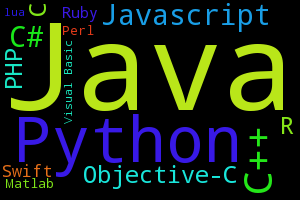
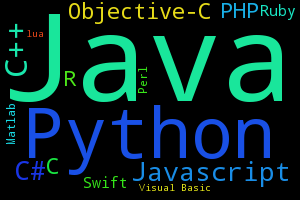
log scale. DE, IN

diff --git a/PYPL.html b/PYPL.html
@@ -159,6 +159,48 @@ table = "<!-- begin section US-->\
 <!-- end section US-->\
 ";
 }
+if (getUrlParameter('country') == "DE") {
+cloud = "DE.png"
+table = "<!-- begin section DE-->\
+<td class=center>1</td><td class=center></td><td>Java</td><td class=right>28.8 %</td><td class=\"right optCol\">+0.7 %</td></tr>\
+<tr><td class=center>2</td><td class=center><image src=Up.png></td><td>Python</td><td class=right>14.9 %</td><td class=\"right optCol\">+1.1 %</td></tr>\
+<tr><td class=center>3</td><td class=center><image src=Down.png></td><td>C++</td><td class=right>13.4 %</td><td class=\"right optCol\">+0.4 %</td></tr>\
+<tr><td class=center>4</td><td class=center></td><td>PHP</td><td class=right>12.4 %</td><td class=\"right optCol\">-0.8 %</td></tr>\
+<tr><td class=center>5</td><td class=center></td><td>C#</td><td class=right>11.5 %</td><td class=\"right optCol\">+1.3 %</td></tr>\
+<tr><td class=center>6</td><td class=center></td><td>C</td><td class=right>7.1 %</td><td class=\"right optCol\">-1.6 %</td></tr>\
+<tr><td class=center>7</td><td class=center></td><td>Javascript</td><td class=right>6.9 %</td><td class=\"right optCol\">-0.9 %</td></tr>\
+<tr><td class=center>8</td><td class=center></td><td>Objective-C</td><td class=right>5.0 %</td><td class=\"right optCol\">-0.3 %</td></tr>\
+<tr><td class=center>9</td><td class=center><image src=Up.png><image src=Up.png><image src=Up.png><image src=Up.png><image src=Up.png></td><td>lua</td><td class=right>0.0 %</td><td class=\"right optCol\">+0.0 %</td></tr>\
+<tr><td class=center>10</td><td class=center><image src=Down.png></td><td>Perl</td><td class=right>0.0 %</td><td class=\"right optCol\">+0.0 %</td></tr>\
+<tr><td class=center>11</td><td class=center><image src=Down.png></td><td>Ruby</td><td class=right>0.0 %</td><td class=\"right optCol\">+0.0 %</td></tr>\
+<tr><td class=center>12</td><td class=center><image src=Up.png></td><td>Visual Basic</td><td class=right>0.0 %</td><td class=\"right optCol\">+0.0 %</td></tr>\
+<tr><td class=center>13</td><td class=center><image src=Down.png><image src=Down.png></td><td>R</td><td class=right>0.0 %</td><td class=\"right optCol\">+0.0 %</td></tr>\
+<tr><td class=center>14</td><td class=center><image src=Down.png><image src=Down.png></td><td>Swift</td><td class=right>0.0 %</td><td class=\"right optCol\">+0.0 %</td></tr>\
+<tr><td class=center>15</td><td class=center></td><td>Matlab</td><td class=right>0.0 %</td><td class=\"right optCol\">+0.0 %</td>\
+<!-- end section DE-->\
+";
+}
+if (getUrlParameter('country') == "IN") {
+cloud = "IN.png"
+table = "<!-- begin section IN-->\
+<td class=center>1</td><td class=center></td><td>Java</td><td class=right>32.2 %</td><td class=\"right optCol\">+0.1 %</td></tr>\
+<tr><td class=center>2</td><td class=center></td><td>PHP</td><td class=right>13.4 %</td><td class=\"right optCol\">-1.4 %</td></tr>\
+<tr><td class=center>3</td><td class=center></td><td>C</td><td class=right>9.9 %</td><td class=\"right optCol\">+0.1 %</td></tr>\
+<tr><td class=center>4</td><td class=center></td><td>C#</td><td class=right>8.8 %</td><td class=\"right optCol\">-0.4 %</td></tr>\
+<tr><td class=center>5</td><td class=center></td><td>Javascript</td><td class=right>8.4 %</td><td class=\"right optCol\">-0.7 %</td></tr>\
+<tr><td class=center>6</td><td class=center><image src=Up.png></td><td>Python</td><td class=right>6.9 %</td><td class=\"right optCol\">+1.5 %</td></tr>\
+<tr><td class=center>7</td><td class=center><image src=Down.png></td><td>C++</td><td class=right>6.6 %</td><td class=\"right optCol\">+0.8 %</td></tr>\
+<tr><td class=center>8</td><td class=center></td><td>Objective-C</td><td class=right>4.4 %</td><td class=\"right optCol\">+0.2 %</td></tr>\
+<tr><td class=center>9</td><td class=center></td><td>Matlab</td><td class=right>2.7 %</td><td class=\"right optCol\">-0.4 %</td></tr>\
+<tr><td class=center>10</td><td class=center></td><td>Perl</td><td class=right>1.7 %</td><td class=\"right optCol\">-0.7 %</td></tr>\
+<tr><td class=center>11</td><td class=center><image src=Up.png></td><td>Ruby</td><td class=right>1.5 %</td><td class=\"right optCol\">+0.1 %</td></tr>\
+<tr><td class=center>12</td><td class=center><image src=Up.png></td><td>R</td><td class=right>1.4 %</td><td class=\"right optCol\">+0.5 %</td></tr>\
+<tr><td class=center>13</td><td class=center><image src=Down.png><image src=Down.png></td><td>Visual Basic</td><td class=right>1.4 %</td><td class=\"right optCol\">-0.8 %</td></tr>\
+<tr><td class=center>14</td><td class=center><image src=Up.png></td><td>Swift</td><td class=right>0.8 %</td><td class=\"right optCol\">+1.2 %</td></tr>\
+<tr><td class=center>15</td><td class=center><image src=Down.png></td><td>lua</td><td class=right>0.0 %</td><td class=\"right optCol\">+0.0 %</td>\
+<!-- end section IN-->\
+";
+}
 
 table = "<table class=table><tr><th class=center>Rank<br></th><th class=center>Change</th><th>Language</th><th class=center>Share</th><th class=\"optCol center\">Trend</th></tr><tr>" + table + "</tr><tr><td colspan=5 align=right>&copy; Pierre Carbonnelle, 2015</td></tr></table>"
 document.getElementById("table").innerHTML=table;
@@ -174,7 +216,7 @@ document.getElementById("cloud").src=cloud;
   <div class="row blue">
         <h1 class="text-center">PYPL PopularitY of Programming Language</h1>
 
-         <!--<p class=text-center><a href="#">Worldwide</a> <a href="#US">US</a></p>-->
+         <!--<p class=text-center><a href="?">Worldwide</a> <a href="?country=US">US</a></p>-->
 
          <!-- <div class="visible-xs">xs</div><div class="visible-sm">sm</div><div class="visible-md">md</div><div class="visible-lg">lg</div>-->
 
@@ -196,8 +238,8 @@ document.getElementById("cloud").src=cloud;
     <div id="PYPL" class="col-xs-12 col-sm-8  col-sm-offset-2 vcenter" style="height: 80%"><img src="482.gif" class="img-responsive center-block"></img></div>
     <div class="col-xs-10 col-xs-offset-1 col-sm-6 col-sm-offset-3" >
         <p><br><br><span class="lead">
-          Show your favorite languages in the chart : 
-          <select id=selectLang class="selectpicker text-center" multiple title='Choose your languages...' data-style="btn-success" data-width="auto" data-selected-text-format="count>3"></select>
+          This chart uses a <a href=http://en.wikipedia.org/wiki/Semi-log_plot>logarithmic scale</a>.  It can show your favorite languages : 
+          <select id=selectLang class="selectpicker text-center" multiple title='Choose your languages...' data-width="auto" data-selected-text-format="count>3"></select>
         </span><br><br></p>
     </div>
     <div class="col-xs-10 col-xs-offset-1 col-sm-6 col-sm-offset-3 ">
@@ -369,11 +411,13 @@ document.getElementById("cloud").src=cloud;
 
 <!-- Google -->
 <script type="text/javascript" src="https://www.google.com/jsapi"></script>
-<script src="All.js?t=axbAll815Allbxa">//load All by default</script>
+<script src="All.js?t=axbAll4029Allbxa">//load All by default</script>
 
 <script>
 $.ajaxSetup({async:false});
-if (getUrlParameter('country') == "US") {$.getScript("US.js?t=axbUS1333USbxa")}
+if (getUrlParameter('country') == "US") {$.getScript("US.js?t=axbUS6277USbxa")}
+if (getUrlParameter('country') == "DE") {$.getScript("DE.js?t=axbDE2652DEbxa")}
+if (getUrlParameter('country') == "IN") {$.getScript("IN.js?t=axbIN1743INbxa")}
 $.ajaxSetup({async:true});
 
 document.getElementById('topBottom').innerHTML = String.format('{0} is the most popular language, {3} grew the most since 2004 ({4}%) and {1} lost the most ({2}%)', 

diff --git a/JP.js b/JP.js
@@ -1,0 +1,47 @@
+    // data
+// begin Top JP
+TopPlusMinus = [1,13,3]
+PlusMinus = [-0.102766666667,0.143916666667]
+// end Top JP
+graphData = [
+['Date', // begin section languages
+'Java', 'PHP', 'Python', 'C#', 'Javascript', 'C++', 'C', 'Objective-C', 'Visual Basic', 'Ruby', 'Swift', 'R', 'Perl', 'Matlab', 'lua'
+// end section languages
+],
+// begin section JP
+[new Date(2004,1,1), 0.262,0.149,0.023,0.058,0.084,0.149,0.083,0.0,0.074,0.0,0.0,0.0,0.119,0.0,0.0],
+[new Date(2004,5,1), 0.274,0.141,0.029,0.06,0.089,0.149,0.084,0.0,0.067,0.0,0.0,0.0,0.107,0.0,0.0],
+[new Date(2004,9,1), 0.273,0.156,0.034,0.061,0.082,0.143,0.079,0.0,0.063,0.0,0.0,0.0,0.11,0.0,0.0],
+[new Date(2005,1,1), 0.28,0.16,0.035,0.064,0.079,0.145,0.084,0.0,0.053,0.0,0.0,0.0,0.097,0.003,0.0],
+[new Date(2005,5,1), 0.277,0.153,0.035,0.062,0.083,0.141,0.079,0.0,0.054,0.0,0.0,0.0,0.1,0.015,0.0],
+[new Date(2005,9,1), 0.278,0.148,0.045,0.062,0.083,0.138,0.079,0.0,0.054,0.0,0.0,0.0,0.099,0.015,0.0],
+[new Date(2006,1,1), 0.278,0.159,0.048,0.063,0.088,0.13,0.073,0.0,0.052,0.004,0.0,0.0,0.086,0.018,0.0],
+[new Date(2006,5,1), 0.257,0.156,0.048,0.069,0.089,0.124,0.066,0.0,0.052,0.03,0.0,0.0,0.09,0.019,0.0],
+[new Date(2006,9,1), 0.262,0.152,0.048,0.077,0.093,0.115,0.065,0.0,0.048,0.04,0.0,0.0,0.087,0.012,0.0],
+[new Date(2007,1,1), 0.273,0.148,0.05,0.071,0.09,0.119,0.068,0.0,0.045,0.038,0.0,0.0,0.074,0.024,0.0],
+[new Date(2007,5,1), 0.271,0.143,0.055,0.069,0.089,0.11,0.065,0.0,0.044,0.046,0.0,0.0,0.079,0.029,0.0],
+[new Date(2007,9,1), 0.272,0.148,0.06,0.071,0.092,0.107,0.063,0.0,0.042,0.044,0.0,0.0,0.075,0.027,0.0],
+[new Date(2008,1,1), 0.264,0.146,0.066,0.069,0.087,0.114,0.07,0.0,0.04,0.045,0.0,0.0,0.072,0.027,0.0],
+[new Date(2008,5,1), 0.264,0.143,0.07,0.076,0.086,0.114,0.066,0.0,0.035,0.048,0.0,0.0,0.073,0.025,0.0],
+[new Date(2008,9,1), 0.263,0.144,0.078,0.08,0.085,0.107,0.067,0.0,0.039,0.044,0.0,0.0,0.065,0.028,0.0],
+[new Date(2009,1,1), 0.248,0.137,0.08,0.072,0.087,0.112,0.079,0.0,0.044,0.038,0.0,0.004,0.071,0.029,0.0],
+[new Date(2009,5,1), 0.247,0.136,0.086,0.066,0.083,0.117,0.085,0.0,0.042,0.037,0.0,0.012,0.065,0.025,0.0],
+[new Date(2009,9,1), 0.25,0.135,0.086,0.06,0.082,0.111,0.094,0.0,0.039,0.037,0.0,0.014,0.061,0.033,0.0],
+[new Date(2010,1,1), 0.258,0.13,0.087,0.055,0.074,0.114,0.097,0.0,0.041,0.035,0.0,0.016,0.056,0.037,0.0],
+[new Date(2010,5,1), 0.262,0.126,0.084,0.056,0.071,0.112,0.106,0.0,0.043,0.034,0.0,0.017,0.057,0.034,0.0],
+[new Date(2010,9,1), 0.269,0.119,0.092,0.061,0.074,0.102,0.106,0.002,0.039,0.034,0.0,0.019,0.05,0.035,0.0],
+[new Date(2011,1,1), 0.264,0.113,0.1,0.06,0.07,0.096,0.108,0.013,0.038,0.039,0.0,0.023,0.04,0.036,0.0],
+[new Date(2011,5,1), 0.252,0.109,0.103,0.06,0.074,0.094,0.109,0.023,0.036,0.047,0.0,0.023,0.043,0.029,0.0],
+[new Date(2011,9,1), 0.249,0.105,0.119,0.056,0.079,0.094,0.107,0.029,0.032,0.045,0.0,0.022,0.036,0.026,0.0],
+[new Date(2012,1,1), 0.244,0.1,0.13,0.058,0.074,0.091,0.092,0.048,0.031,0.046,0.0,0.023,0.032,0.029,0.001],
+[new Date(2012,5,1), 0.242,0.093,0.129,0.072,0.075,0.091,0.077,0.054,0.032,0.046,0.0,0.023,0.032,0.028,0.006],
+[new Date(2012,9,1), 0.239,0.085,0.131,0.084,0.072,0.092,0.072,0.056,0.026,0.047,0.0,0.026,0.032,0.028,0.01],
+[new Date(2013,1,1), 0.237,0.08,0.14,0.086,0.07,0.095,0.067,0.059,0.025,0.045,0.0,0.029,0.027,0.029,0.011],
+[new Date(2013,5,1), 0.231,0.076,0.146,0.08,0.071,0.094,0.064,0.056,0.021,0.05,0.007,0.034,0.028,0.029,0.012],
+[new Date(2013,9,1), 0.226,0.075,0.148,0.079,0.075,0.091,0.06,0.073,0.02,0.05,0.007,0.033,0.025,0.028,0.011],
+[new Date(2014,1,1), 0.231,0.07,0.15,0.077,0.074,0.089,0.063,0.081,0.021,0.046,0.005,0.036,0.022,0.029,0.007],
+[new Date(2014,5,1), 0.232,0.069,0.156,0.08,0.079,0.088,0.066,0.073,0.021,0.044,0.001,0.037,0.021,0.025,0.01],
+[new Date(2014,9,1), 0.225,0.062,0.16,0.077,0.081,0.084,0.061,0.072,0.019,0.044,0.023,0.04,0.021,0.026,0.005],
+[new Date(2015,1,1), 0.226,0.054,0.167,0.075,0.078,0.088,0.065,0.075,0.015,0.038,0.038,0.04,0.016,0.025,0.0]
+// end section JP
+        ];

diff --git a/IN.js b/IN.js
@@ -1,0 +1,47 @@
+    // data
+// begin Top IN
+TopPlusMinus = [1,1,2]
+PlusMinus = [-0.677916666667,0.13415]
+// end Top IN
+graphData = [
+['Date', // begin section languages
+'Java', 'PHP', 'Python', 'C#', 'Javascript', 'C++', 'C', 'Objective-C', 'Visual Basic', 'Ruby', 'Swift', 'R', 'Perl', 'Matlab', 'lua'
+// end section languages
+],
+// begin section IN
+[new Date(2004,1,1), 1.0,0.0,0.0,0.0,0.0,0.0,0.0,0.0,0.0,0.0,0.0,0.0,0.0,0.0,0.0],
+[new Date(2004,5,1), 1.0,0.0,0.0,0.0,0.0,0.0,0.0,0.0,0.0,0.0,0.0,0.0,0.0,0.0,0.0],
+[new Date(2004,9,1), 1.0,0.0,0.0,0.0,0.0,0.0,0.0,0.0,0.0,0.0,0.0,0.0,0.0,0.0,0.0],
+[new Date(2005,1,1), 0.911,0.003,0.0,0.0,0.022,0.03,0.033,0.0,0.0,0.0,0.0,0.0,0.0,0.0,0.0],
+[new Date(2005,5,1), 0.53,0.074,0.0,0.03,0.098,0.122,0.145,0.0,0.0,0.0,0.0,0.0,0.0,0.0,0.0],
+[new Date(2005,9,1), 0.469,0.068,0.0,0.06,0.099,0.134,0.169,0.0,0.0,0.0,0.0,0.0,0.0,0.0,0.0],
+[new Date(2006,1,1), 0.445,0.11,0.0,0.054,0.105,0.128,0.158,0.0,0.0,0.0,0.0,0.0,0.0,0.0,0.0],
+[new Date(2006,5,1), 0.423,0.116,0.0,0.076,0.107,0.122,0.156,0.0,0.0,0.0,0.0,0.0,0.0,0.0,0.0],
+[new Date(2006,9,1), 0.414,0.117,0.0,0.096,0.098,0.119,0.156,0.0,0.0,0.0,0.0,0.0,0.0,0.0,0.0],
+[new Date(2007,1,1), 0.423,0.117,0.0,0.094,0.099,0.114,0.153,0.0,0.0,0.0,0.0,0.0,0.0,0.0,0.0],
+[new Date(2007,5,1), 0.423,0.121,0.0,0.086,0.094,0.102,0.144,0.0,0.015,0.0,0.0,0.0,0.015,0.0,0.0],
+[new Date(2007,9,1), 0.377,0.129,0.0,0.074,0.098,0.101,0.131,0.0,0.042,0.0,0.0,0.0,0.048,0.0,0.0],
+[new Date(2008,1,1), 0.392,0.131,0.0,0.08,0.096,0.106,0.143,0.0,0.025,0.0,0.0,0.0,0.027,0.0,0.0],
+[new Date(2008,5,1), 0.413,0.145,0.0,0.095,0.101,0.104,0.132,0.0,0.004,0.0,0.0,0.0,0.004,0.0,0.0],
+[new Date(2008,9,1), 0.403,0.167,0.0,0.094,0.095,0.1,0.141,0.0,0.0,0.0,0.0,0.0,0.0,0.0,0.0],
+[new Date(2009,1,1), 0.399,0.174,0.002,0.082,0.095,0.094,0.141,0.0,0.008,0.0,0.0,0.0,0.005,0.0,0.0],
+[new Date(2009,5,1), 0.359,0.178,0.019,0.079,0.095,0.099,0.124,0.0,0.021,0.0,0.0,0.0,0.021,0.007,0.0],
+[new Date(2009,9,1), 0.318,0.172,0.03,0.059,0.102,0.094,0.13,0.0,0.034,0.0,0.0,0.0,0.041,0.021,0.0],
+[new Date(2010,1,1), 0.326,0.164,0.026,0.053,0.081,0.093,0.152,0.0,0.033,0.0,0.0,0.0,0.043,0.029,0.0],
+[new Date(2010,5,1), 0.352,0.151,0.024,0.051,0.079,0.084,0.159,0.0,0.03,0.0,0.0,0.0,0.041,0.031,0.0],
+[new Date(2010,9,1), 0.354,0.147,0.027,0.05,0.082,0.082,0.158,0.0,0.028,0.0,0.0,0.0,0.039,0.032,0.0],
+[new Date(2011,1,1), 0.36,0.143,0.028,0.048,0.083,0.077,0.161,0.0,0.028,0.002,0.0,0.0,0.039,0.03,0.0],
+[new Date(2011,5,1), 0.354,0.151,0.026,0.046,0.075,0.071,0.166,0.0,0.028,0.013,0.0,0.0,0.036,0.032,0.0],
+[new Date(2011,9,1), 0.337,0.152,0.027,0.042,0.074,0.075,0.186,0.002,0.025,0.014,0.0,0.0,0.033,0.032,0.0],
+[new Date(2012,1,1), 0.329,0.157,0.032,0.059,0.085,0.067,0.161,0.009,0.025,0.012,0.0,0.001,0.031,0.032,0.0],
+[new Date(2012,5,1), 0.344,0.164,0.036,0.083,0.08,0.058,0.12,0.012,0.025,0.013,0.0,0.004,0.029,0.031,0.0],
+[new Date(2012,9,1), 0.341,0.16,0.037,0.085,0.073,0.071,0.116,0.017,0.024,0.014,0.0,0.004,0.028,0.029,0.0],
+[new Date(2013,1,1), 0.331,0.159,0.04,0.087,0.073,0.071,0.109,0.022,0.022,0.015,0.0,0.01,0.027,0.033,0.0],
+[new Date(2013,5,1), 0.325,0.154,0.049,0.092,0.087,0.065,0.096,0.03,0.021,0.015,0.0,0.01,0.026,0.03,0.0],
+[new Date(2013,9,1), 0.316,0.148,0.053,0.092,0.09,0.068,0.098,0.035,0.021,0.015,0.0,0.011,0.024,0.029,0.0],
+[new Date(2014,1,1), 0.32,0.141,0.055,0.09,0.084,0.065,0.104,0.039,0.02,0.016,0.0,0.011,0.024,0.031,0.0],
+[new Date(2014,5,1), 0.323,0.142,0.056,0.095,0.089,0.058,0.096,0.044,0.019,0.015,0.0,0.01,0.022,0.03,0.0],
+[new Date(2014,9,1), 0.324,0.134,0.059,0.094,0.083,0.064,0.1,0.045,0.015,0.016,0.005,0.013,0.02,0.028,0.0],
+[new Date(2015,1,1), 0.322,0.134,0.069,0.088,0.084,0.066,0.099,0.044,0.014,0.015,0.008,0.014,0.017,0.027,0.0]
+// end section IN
+        ];

diff --git a/DE.js b/DE.js
@@ -1,0 +1,47 @@
+    // data
+// begin Top DE
+TopPlusMinus = [1,2,3]
+PlusMinus = [-0.4041,0.14855]
+// end Top DE
+graphData = [
+['Date', // begin section languages
+'Java', 'PHP', 'Python', 'C#', 'Javascript', 'C++', 'C', 'Objective-C', 'Visual Basic', 'Ruby', 'Swift', 'R', 'Perl', 'Matlab', 'lua'
+// end section languages
+],
+// begin section DE
+[new Date(2004,1,1), 0.472,0.528,0.0,0.0,0.0,0.0,0.0,0.0,0.0,0.0,0.0,0.0,0.0,0.0,0.0],
+[new Date(2004,5,1), 0.497,0.503,0.0,0.0,0.0,0.0,0.0,0.0,0.0,0.0,0.0,0.0,0.0,0.0,0.0],
+[new Date(2004,9,1), 0.489,0.511,0.0,0.0,0.0,0.0,0.0,0.0,0.0,0.0,0.0,0.0,0.0,0.0,0.0],
+[new Date(2005,1,1), 0.49,0.51,0.0,0.0,0.0,0.0,0.0,0.0,0.0,0.0,0.0,0.0,0.0,0.0,0.0],
+[new Date(2005,5,1), 0.494,0.506,0.0,0.0,0.0,0.0,0.0,0.0,0.0,0.0,0.0,0.0,0.0,0.0,0.0],
+[new Date(2005,9,1), 0.498,0.502,0.0,0.0,0.0,0.0,0.0,0.0,0.0,0.0,0.0,0.0,0.0,0.0,0.0],
+[new Date(2006,1,1), 0.49,0.505,0.0,0.005,0.0,0.0,0.0,0.0,0.0,0.0,0.0,0.0,0.0,0.0,0.0],
+[new Date(2006,5,1), 0.473,0.452,0.0,0.075,0.0,0.0,0.0,0.0,0.0,0.0,0.0,0.0,0.0,0.0,0.0],
+[new Date(2006,9,1), 0.491,0.44,0.0,0.069,0.0,0.0,0.0,0.0,0.0,0.0,0.0,0.0,0.0,0.0,0.0],
+[new Date(2007,1,1), 0.482,0.436,0.0,0.02,0.016,0.029,0.017,0.0,0.0,0.0,0.0,0.0,0.0,0.0,0.0],
+[new Date(2007,5,1), 0.409,0.361,0.0,0.089,0.035,0.072,0.034,0.0,0.0,0.0,0.0,0.0,0.0,0.0,0.0],
+[new Date(2007,9,1), 0.337,0.266,0.0,0.089,0.076,0.162,0.07,0.0,0.0,0.0,0.0,0.0,0.0,0.0,0.0],
+[new Date(2008,1,1), 0.339,0.247,0.0,0.075,0.076,0.184,0.079,0.0,0.0,0.0,0.0,0.0,0.0,0.0,0.0],
+[new Date(2008,5,1), 0.368,0.248,0.026,0.058,0.067,0.166,0.068,0.0,0.0,0.0,0.0,0.0,0.0,0.0,0.0],
+[new Date(2008,9,1), 0.381,0.279,0.034,0.095,0.054,0.115,0.042,0.0,0.0,0.0,0.0,0.0,0.0,0.0,0.0],
+[new Date(2009,1,1), 0.381,0.256,0.086,0.093,0.041,0.094,0.047,0.0,0.003,0.0,0.0,0.0,0.0,0.0,0.0],
+[new Date(2009,5,1), 0.34,0.22,0.069,0.071,0.054,0.14,0.081,0.0,0.025,0.0,0.0,0.0,0.0,0.0,0.0],
+[new Date(2009,9,1), 0.291,0.194,0.07,0.065,0.065,0.175,0.091,0.0,0.048,0.0,0.0,0.0,0.0,0.0,0.0],
+[new Date(2010,1,1), 0.292,0.198,0.064,0.069,0.065,0.168,0.098,0.0,0.045,0.0,0.0,0.0,0.0,0.0,0.0],
+[new Date(2010,5,1), 0.291,0.206,0.06,0.066,0.064,0.161,0.104,0.0,0.048,0.0,0.0,0.0,0.0,0.0,0.0],
+[new Date(2010,9,1), 0.285,0.182,0.073,0.07,0.067,0.158,0.105,0.0,0.06,0.0,0.0,0.0,0.0,0.0,0.0],
+[new Date(2011,1,1), 0.293,0.165,0.081,0.07,0.061,0.146,0.125,0.0,0.059,0.0,0.0,0.0,0.0,0.0,0.0],
+[new Date(2011,5,1), 0.297,0.169,0.076,0.069,0.061,0.151,0.125,0.002,0.05,0.0,0.0,0.0,0.0,0.0,0.0],
+[new Date(2011,9,1), 0.29,0.161,0.077,0.068,0.062,0.16,0.125,0.022,0.035,0.0,0.0,0.0,0.0,0.0,0.0],
+[new Date(2012,1,1), 0.275,0.151,0.085,0.071,0.066,0.167,0.111,0.046,0.026,0.002,0.0,0.0,0.0,0.0,0.0],
+[new Date(2012,5,1), 0.284,0.139,0.086,0.082,0.063,0.147,0.094,0.048,0.038,0.019,0.0,0.0,0.0,0.0,0.0],
+[new Date(2012,9,1), 0.283,0.137,0.087,0.09,0.064,0.147,0.086,0.053,0.035,0.018,0.0,0.0,0.0,0.0,0.0],
+[new Date(2013,1,1), 0.285,0.139,0.094,0.095,0.069,0.146,0.082,0.043,0.035,0.013,0.0,0.0,0.0,0.0,0.0],
+[new Date(2013,5,1), 0.285,0.132,0.113,0.105,0.075,0.151,0.089,0.043,0.007,0.0,0.0,0.0,0.0,0.0,0.0],
+[new Date(2013,9,1), 0.273,0.129,0.128,0.102,0.075,0.158,0.083,0.051,0.0,0.0,0.0,0.0,0.0,0.0,0.0],
+[new Date(2014,1,1), 0.272,0.127,0.134,0.099,0.077,0.15,0.083,0.058,0.0,0.0,0.0,0.0,0.0,0.0,0.0],
+[new Date(2014,5,1), 0.274,0.129,0.131,0.109,0.075,0.138,0.084,0.061,0.0,0.0,0.0,0.0,0.0,0.0,0.0],
+[new Date(2014,9,1), 0.282,0.126,0.128,0.114,0.07,0.144,0.074,0.062,0.0,0.0,0.0,0.0,0.0,0.0,0.0],
+[new Date(2015,1,1), 0.288,0.124,0.149,0.115,0.069,0.134,0.071,0.05,0.0,0.0,0.0,0.0,0.0,0.0,0.0]
+// end section DE
+        ];

diff --git a/All.js b/All.js
@@ -24,7 +24,7 @@ graphData = [
 [new Date(2008,1,1), 0.28,0.181,0.049,0.067,0.077,0.113,0.078,0.0,0.049,0.029,0.0,0.008,0.043,0.024,0.003],
 [new Date(2008,5,1), 0.279,0.183,0.048,0.073,0.078,0.109,0.075,0.0,0.049,0.029,0.0,0.008,0.041,0.025,0.004],
 [new Date(2008,9,1), 0.274,0.185,0.054,0.076,0.077,0.107,0.074,0.0,0.051,0.027,0.0,0.009,0.039,0.023,0.005],
-[new Date(2009,1,1), 0.266,0.178,0.058,0.074,0.074,0.112,0.081,0.0,0.052,0.025,0.0,0.01,0.039,0.026,0.005],
+[new Date(2009,1,1), 0.266,0.178,0.058,0.073,0.074,0.112,0.081,0.0,0.052,0.025,0.0,0.01,0.039,0.026,0.005],
 [new Date(2009,5,1), 0.265,0.18,0.062,0.069,0.073,0.112,0.085,0.0,0.052,0.025,0.0,0.01,0.036,0.026,0.005],
 [new Date(2009,9,1), 0.261,0.179,0.059,0.063,0.075,0.112,0.096,0.0,0.05,0.026,0.0,0.01,0.037,0.028,0.005],
 [new Date(2010,1,1), 0.265,0.173,0.06,0.06,0.071,0.112,0.104,0.001,0.051,0.022,0.0,0.01,0.034,0.032,0.005],
@@ -39,7 +39,7 @@ graphData = [
 [new Date(2013,1,1), 0.259,0.138,0.084,0.091,0.066,0.091,0.084,0.048,0.034,0.026,0.005,0.018,0.019,0.031,0.006],
 [new Date(2013,5,1), 0.252,0.137,0.093,0.094,0.071,0.089,0.079,0.051,0.03,0.026,0.004,0.02,0.018,0.031,0.007],
 [new Date(2013,9,1), 0.251,0.133,0.095,0.093,0.074,0.088,0.078,0.057,0.029,0.027,0.004,0.019,0.016,0.029,0.006],
-[new Date(2014,1,1), 0.25,0.127,0.097,0.091,0.072,0.088,0.079,0.063,0.028,0.026,0.004,0.021,0.016,0.031,0.006],
+[new Date(2014,1,1), 0.251,0.127,0.097,0.091,0.072,0.088,0.079,0.063,0.028,0.026,0.004,0.021,0.016,0.031,0.006],
 [new Date(2014,5,1), 0.251,0.127,0.099,0.095,0.076,0.083,0.077,0.062,0.027,0.025,0.004,0.022,0.015,0.03,0.006],
 [new Date(2014,9,1), 0.252,0.123,0.101,0.094,0.073,0.08,0.078,0.061,0.024,0.025,0.016,0.024,0.014,0.028,0.005],
 [new Date(2015,1,1), 0.247,0.117,0.106,0.089,0.072,0.082,0.078,0.061,0.023,0.025,0.025,0.027,0.013,0.03,0.005]
